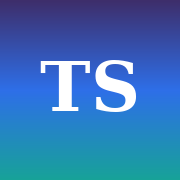
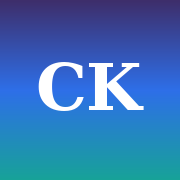
codekasa name

Changed region(s): [[0.1944, 0.3333, 0.8056, 0.6389]]

diff --git a/index.html b/index.html
@@ -3,7 +3,7 @@
 <head>
 <meta charset="UTF-8">
 <meta name="viewport" content="width=device-width, initial-scale=1.0">
-<title>Thiru Stay — A home away from home</title>
+<title>Codekasa — A Luxury Living</title>
 
 <!-- PWA: installability -->
 <link rel="manifest" href="manifest.json">
@@ -13,7 +13,7 @@
 <meta name="mobile-web-app-capable" content="yes">
 <meta name="apple-mobile-web-app-capable" content="yes">
 <meta name="apple-mobile-web-app-status-bar-style" content="black-translucent">
-<meta name="apple-mobile-web-app-title" content="Thiru Stay">
+<meta name="apple-mobile-web-app-title" content="Codekasa">
 <link rel="preconnect" href="https://fonts.googleapis.com">
 <link rel="preconnect" href="https://fonts.gstatic.com" crossorigin>
 <link href="https://fonts.googleapis.com/css2?family=Fraunces:opsz,wght@9..144,400;9..144,500;9..144,600;9..144,700&family=Work+Sans:wght@400;500;600&display=swap" rel="stylesheet">
@@ -532,7 +532,10 @@
           <line x1="50" y1="14" x2="50" y2="108" stroke="#C0392B" stroke-width="9" stroke-linecap="round"/>
         </svg>
       </span>
-      <span class="brand">Thiru <span>Stay</span></span>
+      <span style="display:flex; flex-direction:column; line-height:1.15;">
+        <span class="brand">Code<span>kasa</span></span>
+        <span style="font-size:0.6rem; letter-spacing:0.14em; text-transform:uppercase; color:var(--muted); font-weight:600;">A Luxury Living</span>
+      </span>
     </a>
     <button class="menu-btn" id="menuBtn" aria-label="Toggle menu" aria-expanded="false">☰</button>
     <ul class="nav-links" id="navLinks">
@@ -551,17 +554,17 @@
 <section class="hero" id="top">
   <div class="wrap">
     <div>
-      <div class="hero-eyebrow">Carmelaram, Sarjapur Road, Bengaluru</div>
+      <div class="hero-eyebrow">Codekasa · A Luxury Living</div>
       <h1>The Elevated PG Living — just minutes away from Sarjapur tech corridor.</h1>
-      <p>Thiru Stay offers furnished single, family and shared rooms with kitchen access, daily housekeeping and round-the-clock security. Convenient stay for working professionals and students — feel at home in a new city.</p>
+      <p>Codekasa offers furnished single, family and shared rooms with kitchen access, daily housekeeping and round-the-clock security. Convenient stay for working professionals and students — feel at home in a new city.</p>
       <div class="hero-actions">
         <a href="#rooms" class="btn btn-primary">See rooms &amp; pricing</a>
         <a href="#contact" class="btn btn-ghost">Book a visit</a>
       </div>
     </div>
     <div class="hero-art">
-      <img src="building.jpg" alt="Thiru Stay building exterior at night">
-      <span class="tag">Thiru Stay — Carmelaram, Bengaluru</span>
+      <img src="building.jpg" alt="Codekasa building exterior at night">
+      <span class="tag">Codekasa — A Luxury Living</span>
     </div>
   </div>
 </section>
@@ -577,7 +580,7 @@
     <div class="section-head">
       <div class="section-eyebrow">What's included</div>
       <h2>Everything you need, nothing you have to arrange yourself</h2>
-      <p>Every room at Thiru Stay comes with these facilities as standard — no separate charges unless noted on the room listing.</p>
+      <p>Every room at Codekasa comes with these facilities as standard — no separate charges unless noted on the room listing.</p>
     </div>
   </div>
   <div class="wrap" style="padding:0;">
@@ -728,7 +731,7 @@
       <div class="shot"><span>Entrance</span></div>
       <div class="shot"><span>Study area</span></div>
       <div class="shot"><span>Balcony / terrace</span></div>
-      <div class="shot contain"><img src="building.jpg" alt="Thiru Stay building exterior"></div>
+      <div class="shot contain"><img src="building.jpg" alt="Codekasa building exterior"></div>
     </div>
   </div>
 </section>
@@ -744,11 +747,11 @@
         src="https://www.google.com/maps?q=Petra+Pebbles,+Ambalipura-Sarjapur+Rd,+Carmelaram,+Mullur,+Karnataka+560035&output=embed"
         loading="lazy"
         referrerpolicy="no-referrer-when-downgrade"
-        title="Map showing Thiru Stay location"></iframe>
+        title="Map showing Codekasa location"></iframe>
       <div>
         <div class="addr-line">
           <svg viewBox="0 0 24 24" fill="none" stroke="currentColor" stroke-width="1.8"><path d="M12 21s7-7.2 7-12a7 7 0 10-14 0c0 4.8 7 12 7 12z"/><circle cx="12" cy="9" r="2.5"/></svg>
-          <div>Thiru Stay, Plot No. 2, Petra Pebbles, 34, Ambalipura – Sarjapur Rd, Carmelaram Post, Mullur, Karnataka 560035</div>
+          <div>Codekasa, Plot No. 2, Petra Pebbles, 34, Ambalipura – Sarjapur Rd, Carmelaram Post, Mullur, Karnataka 560035</div>
         </div>
         <div class="addr-line">
           <svg viewBox="0 0 24 24" fill="none" stroke="currentColor" stroke-width="1.8"><path d="M22 16.9v3a2 2 0 01-2.2 2 19.8 19.8 0 01-8.6-3.1 19.5 19.5 0 01-6-6 19.8 19.8 0 01-3.1-8.7A2 2 0 014.1 2h3a2 2 0 012 1.7c.1.9.3 1.8.6 2.7a2 2 0 01-.4 2.1L8 9.9a16 16 0 006 6l1.4-1.3a2 2 0 012.1-.4c.9.3 1.8.5 2.7.6a2 2 0 011.8 2z"/></svg>
@@ -756,7 +759,7 @@
         </div>
         <div class="addr-line">
           <svg viewBox="0 0 24 24" fill="none" stroke="currentColor" stroke-width="1.8"><path d="M4 4h16v16H4z"/><path d="M4 6l8 6 8-6"/></svg>
-          <div>hello@thirustay.in</div>
+          <div>hello@codekasa.in</div>
         </div>
       </div>
     </div>
@@ -785,7 +788,7 @@
       <div class="pay-card">
         <h3>Bank transfer</h3>
         <ul class="bank-list">
-          <li><span>Account name</span><span>Thiru Stay</span></li>
+          <li><span>Account name</span><span>Codekasa</span></li>
           <li><span>Account no.</span><span>XXXXXXXXXXXX</span></li>
           <li><span>IFSC</span><span>XXXX0XXXXXX</span></li>
         </ul>
@@ -853,7 +856,7 @@
         </div>
         <div class="contact-item">
           <svg viewBox="0 0 24 24" fill="none" stroke="currentColor" stroke-width="1.8"><path d="M4 4h16v16H4z"/><path d="M4 6l8 6 8-6"/></svg>
-          <div>Or write to us at hello@thirustay.in — we typically reply within a few hours.</div>
+          <div>Or write to us at hello@codekasa.in — we typically reply within a few hours.</div>
         </div>
       </div>
     </div>
@@ -872,9 +875,9 @@
               <line x1="50" y1="14" x2="50" y2="108" stroke="#C0392B" stroke-width="9" stroke-linecap="round"/>
             </svg>
           </span>
-          <div class="brand">Thiru <span>Stay</span></div>
+          <div class="brand">Code<span>kasa</span></div>
         </div>
-        <p style="max-width:32ch; margin-top:10px;">A home away from home in Carmelaram, Sarjapur Road, Bengaluru.</p>
+        <p style="max-width:32ch; margin-top:10px;">A Luxury Living — Carmelaram, Sarjapur Road, Bengaluru.</p>
       </div>
       <div>
         <div style="color:var(--paper); margin-bottom:10px; font-weight:500;">Quick links</div>
@@ -889,12 +892,12 @@
         <div style="color:var(--paper); margin-bottom:10px; font-weight:500;">Reach us</div>
         <div style="display:flex; flex-direction:column; gap:8px;">
           <span>+91 81068 12341</span>
-          <span>hello@thirustay.in</span>
+          <span>hello@codekasa.in</span>
         </div>
       </div>
     </div>
     <div class="foot-bottom">
-      <span>© 2026 Thiru Stay. All rights reserved.</span>
+      <span>© 2026 Codekasa. All rights reserved.</span>
       <span><a href="admin.html" style="color:#B9C7C2; text-decoration:underline;">Staff Login</a> · Placeholder content — replace with your details before publishing.</span>
     </div>
   </div>

diff --git a/admin.html b/admin.html
@@ -3,7 +3,7 @@
 <head>
 <meta charset="UTF-8">
 <meta name="viewport" content="width=device-width, initial-scale=1.0">
-<title>Thiru Stay — Admin Portal</title>
+<title>Codekasa — Admin Portal</title>
 
 <!-- PWA: installability -->
 <link rel="manifest" href="manifest-admin.json">
@@ -13,7 +13,7 @@
 <meta name="mobile-web-app-capable" content="yes">
 <meta name="apple-mobile-web-app-capable" content="yes">
 <meta name="apple-mobile-web-app-status-bar-style" content="black-translucent">
-<meta name="apple-mobile-web-app-title" content="Thiru Admin">
+<meta name="apple-mobile-web-app-title" content="Codekasa Admin">
 <link rel="preconnect" href="https://fonts.googleapis.com">
 <link rel="preconnect" href="https://fonts.gstatic.com" crossorigin>
 <link href="https://fonts.googleapis.com/css2?family=Fraunces:opsz,wght@9..144,500;9..144,600;9..144,700&family=Work+Sans:wght@400;500;600&display=swap" rel="stylesheet">
@@ -57,6 +57,7 @@
   .namam-mark{ width:34px; height:34px; border-radius:7px; background:var(--pine-deep); display:flex; align-items:center; justify-content:center; padding:5px; flex:none; }
   .namam-mark svg{ width:100%; height:100%; }
   .login-brand .brand{ font-size:1.3rem; }
+  .login-brand .brand span{ color:var(--rust); }
   .role-tabs{ display:flex; gap:8px; margin-bottom:20px; }
   .role-tab{ flex:1; padding:10px; text-align:center; border:1px solid var(--line); border-radius:5px; background:var(--ivory); font-weight:500; font-size:0.9rem; color:var(--muted); }
   .role-tab.active{ background:var(--pine); color:#fff; border-color:var(--pine); }
@@ -144,7 +145,10 @@
           <line x1="50" y1="14" x2="50" y2="108" stroke="#C0392B" stroke-width="9" stroke-linecap="round"/>
         </svg>
       </span>
-      <span class="brand">Thiru Stay</span>
+      <span style="display:flex; flex-direction:column; line-height:1.15;">
+        <span class="brand">Code<span>kasa</span></span>
+        <span style="font-size:0.62rem; letter-spacing:0.14em; text-transform:uppercase; color:var(--muted); font-weight:600;">A Luxury Living</span>
+      </span>
     </div>
 
     <div class="role-tabs">
@@ -184,7 +188,7 @@
             <line x1="50" y1="14" x2="50" y2="108" stroke="#C0392B" stroke-width="9" stroke-linecap="round"/>
           </svg>
         </span>
-        <span class="brand">Thiru <span>Stay</span> — Admin</span>
+        <span class="brand">Code<span>kasa</span> — Admin</span>
       </div>
       <button class="btn btn-outline" style="color:#fff; border-color:rgba(255,255,255,0.4);" onclick="logout()">Log out</button>
     </div>
@@ -453,7 +457,7 @@
             <line x1="50" y1="14" x2="50" y2="108" stroke="#C0392B" stroke-width="9" stroke-linecap="round"/>
           </svg>
         </span>
-        <span class="brand">Thiru <span>Stay</span></span>
+        <span class="brand">Code<span>kasa</span></span>
       </div>
       <button class="btn btn-outline" style="color:#fff; border-color:rgba(255,255,255,0.4);" onclick="logout()">Back to login</button>
     </div>
